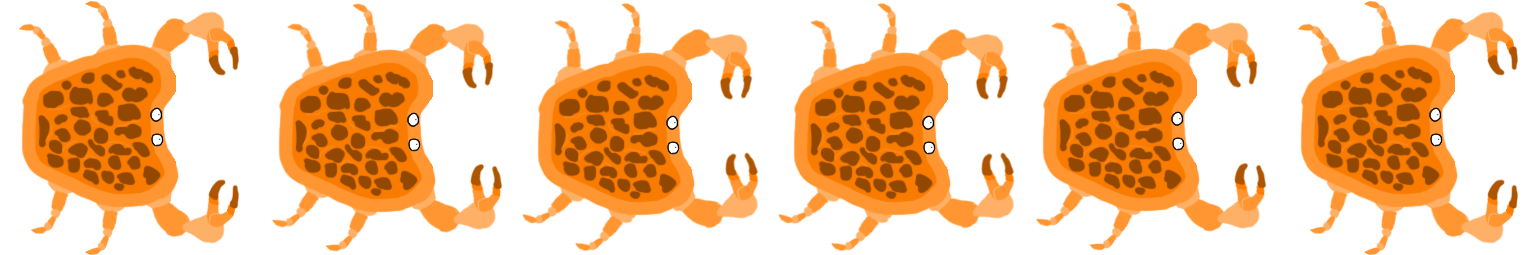
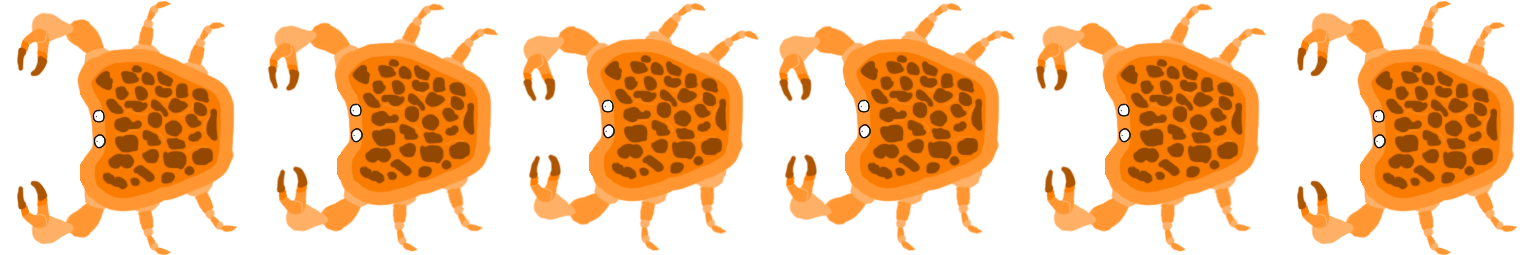
Fejlen er at collision box ikke er sat det rigtige sted, pga vi tegner vores sprite med et offset

diff --git a/MonoCrab/CCollider.cs b/MonoCrab/CCollider.cs
@@ -44,8 +44,7 @@ namespace MonoCrab
         {
             get
             {
-                return new Rectangle
-                    (
+                return new Rectangle(
                     (int)(gameObject.Transform.position.X + spriteRenderer.Offset.X),
                     (int)(gameObject.Transform.position.Y + spriteRenderer.Offset.Y),
                     spriteRenderer.Rectangle.Width,
@@ -64,15 +63,20 @@ namespace MonoCrab
             Rectangle rightLine = new Rectangle(CollisionBox.X + CollisionBox.Width, CollisionBox.Y, 1, CollisionBox.Height);
             Rectangle leftLine = new Rectangle(CollisionBox.X, CollisionBox.Y, 1, CollisionBox.Height);
             
-            //spriteBatch.Draw(texture, topLine, null, Color.Red, 0, Vector2.Zero, SpriteEffects.None, 1);
-            //spriteBatch.Draw(texture, bottomLine, null, Color.Red, 0, Vector2.Zero, SpriteEffects.None, 1);
-            //spriteBatch.Draw(texture, rightLine, null, Color.Red, 0, Vector2.Zero, SpriteEffects.None, 1);
-            //spriteBatch.Draw(texture, leftLine, null, Color.Red, 0, Vector2.Zero, SpriteEffects.None, 1);
+           spriteBatch.Draw(texture, topLine, null, Color.Red, 0, Vector2.Zero, SpriteEffects.None, 1);
+           spriteBatch.Draw(texture, bottomLine, null, Color.Red, 0, Vector2.Zero, SpriteEffects.None, 1);
+           spriteBatch.Draw(texture, rightLine, null, Color.Red, 0, Vector2.Zero, SpriteEffects.None, 1);
+           spriteBatch.Draw(texture, leftLine, null, Color.Red, 0, Vector2.Zero, SpriteEffects.None, 1);
 
-            spriteBatch.Draw(texture, topLine.Location.ToVector2() + spriteRenderer.Offset, topLine, Color.Red, 0, new Vector2(spriteRenderer.Sprite.Width / 2, spriteRenderer.Sprite.Height / 2), 1, SpriteEffects.None, 0.3f);
-            spriteBatch.Draw(texture, bottomLine.Location.ToVector2() + spriteRenderer.Offset, bottomLine, Color.Red, 0, new Vector2(spriteRenderer.Sprite.Width / 2, spriteRenderer.Sprite.Height / 2), 1, SpriteEffects.None, 0.3f);
-            spriteBatch.Draw(texture, rightLine.Location.ToVector2() + spriteRenderer.Offset, rightLine, Color.Red,0, new Vector2(spriteRenderer.Sprite.Width / 2, spriteRenderer.Sprite.Height / 2), 1, SpriteEffects.None, 0.3f);
-            spriteBatch.Draw(texture, leftLine.Location.ToVector2() + spriteRenderer.Offset, leftLine, Color.Red, 0, new Vector2(spriteRenderer.Sprite.Width / 2, spriteRenderer.Sprite.Height / 2), 1, SpriteEffects.None, 0.3f);
+            //don't draw collision boxes when pixel collision is on
+            if (!pixelCollision)
+            {
+                spriteBatch.Draw(texture, topLine.Location.ToVector2() + spriteRenderer.Offset, topLine, Color.Red, 0, new Vector2(spriteRenderer.Sprite.Width / 2, spriteRenderer.Sprite.Height / 2), 1, SpriteEffects.None, 0.3f);
+                spriteBatch.Draw(texture, bottomLine.Location.ToVector2() + spriteRenderer.Offset, bottomLine, Color.Red, 0, new Vector2(spriteRenderer.Sprite.Width / 2, spriteRenderer.Sprite.Height / 2), 1, SpriteEffects.None, 0.3f);
+                spriteBatch.Draw(texture, rightLine.Location.ToVector2() + spriteRenderer.Offset, rightLine, Color.Red, 0, new Vector2(spriteRenderer.Sprite.Width / 2, spriteRenderer.Sprite.Height / 2), 1, SpriteEffects.None, 0.3f);
+                spriteBatch.Draw(texture, leftLine.Location.ToVector2() + spriteRenderer.Offset, leftLine, Color.Red, 0, new Vector2(spriteRenderer.Sprite.Width / 2, spriteRenderer.Sprite.Height / 2), 1, SpriteEffects.None, 0.3f);
+            }
+            
 
             //+ (int)spriteRenderer.Offset.X
         }
@@ -134,7 +138,7 @@ namespace MonoCrab
         private void CachePixels()
         {
             
-                foreach (KeyValuePair<string, Animation> pair in animator.Animations)
+                foreach (KeyValuePair<string, Animation> pair in animator.animations)
                 {
                     Animation animation = pair.Value;
 

diff --git a/MonoCrab/CCrab.cs b/MonoCrab/CCrab.cs
@@ -2,6 +2,7 @@
 using System.Collections.Generic;
 using System.Diagnostics;
 using System.Linq;
+using System.Runtime.Remoting.Metadata.W3cXsd2001;
 using System.Text;
 using Microsoft.Xna.Framework;
 using Microsoft.Xna.Framework.Content;
@@ -12,7 +13,8 @@ namespace MonoCrab
 {
     internal class CCrab : Component, ILoadable, IUpdateable /*, IAnimateable*/, IDrawable, IOnCollisionEnter
     {
-        // private CAnimator animator;
+        private CAnimator animator;
+        private CSpriteRenderer spriteRenderer;
         private List<Vector2> targets = new List<Vector2>();
         private int speed = 40;
         private float turnSpeed = 3;
@@ -34,7 +36,9 @@ namespace MonoCrab
 
         public CCrab(GameObject gameObject) : base(gameObject)
         {
-            //this.animator = (CAnimator)gameObject.GetComponent("CAnimator");
+            this.spriteRenderer = (CSpriteRenderer)gameObject.GetComponent("CSpriteRenderer");
+
+            this.animator = (CAnimator)gameObject.GetComponent("CAnimator");
             gameObject.Transform.speed = speed;
             gameObject.Transform.turnSpeed = turnSpeed;
         }
@@ -67,22 +71,30 @@ namespace MonoCrab
         public void Update()
         {
             GetClosestBait();
-            gameObject.Transform.MoveTo(closestTarget, true);
+            gameObject.Transform.MoveTo(closestTarget, false);
+            gameObject.Transform.LookAt(closestTarget);
         }
 
         public void OnAnimationDone(string animationName)
         {
-            // throw new NotImplementedException();
+            animator.PlayAnimation("Walk");
+
         }
 
         public void CreateAnimations()
         {
-            // animator.CreateAnimation("Walk", new Animation(6, 0, 0, 107, 100, 10, Vector2.Zero));
-            // animator.PlayAnimation("Walk");
+            //animator.CreateAnimation("Walk", new Animation(6, 0, 0, 107, 100, 10, Vector2.Zero));
+            animator.CreateAnimation("Walk", new Animation(6, 0, 0, 256, 255, 10, Vector2.Zero));
+
+            animator.PlayAnimation("Walk");
         }
 
         public void Draw(SpriteBatch spriteBatch)
         {
+            spriteBatch.Draw(spriteRenderer.Sprite, gameObject.Transform.position + spriteRenderer.Offset, spriteRenderer.Rectangle, Color.White, gameObject.Transform.rotation, new Vector2(spriteRenderer.Sprite.Width / 255,spriteRenderer.Sprite.Height / 256), 1, SpriteEffects.None, 0.3f);
+
+            //spriteBatch.Draw(Sprite, gameObject.Transform.position + Offset, Rectangle, drawColor, gameObject.Transform.rotation, Vector2.Zero, 1, SpriteEffects.None, layerDepth);
+
         }
 
         public void OnCollisionEnter(CCollider other)

diff --git a/MonoCrab/CAnimator.cs b/MonoCrab/CAnimator.cs
@@ -28,40 +28,37 @@ namespace MonoCrab
             set { animationName = value; }
         }
 
-        private Dictionary<string, Animation> animations;
+        //private Dictionary<string, Animation> animations;
 
-        public Dictionary<string, Animation> Animations
-        {
-            get
-            {
-                return animations;
-            }
-
-            set
-            {
-                animations = value;
-            }
-        }
+        public Dictionary<string, Animation> animations;
+        
 
        
 
 
         public CAnimator(GameObject gameObject) : base (gameObject)
         {
+            
             fps = 5;
             animations = new Dictionary<string, Animation>();
             this.spriteRenderer = (CSpriteRenderer)gameObject.GetComponent("CSpriteRenderer");
+            
         }
         public void LoadContent(ContentManager content)
         {
-            //int width = spriteRenderer.Sprite.Width / animations[animationName].Fps;
+            //int width = (spriteRenderer.Sprite.Width / animations[animationName].Fps;
             //rectangles = new Rectangle[stripLength];
             //for (int i = 0; i < stripLength; i++)
             //{
             //    rectangles[i] = new Rectangle(i * width, 0, width, spriteRenderer.Sprite.Height);
             //}
         }
+        public void CreateAnimation(string name, Animation animation)
+        {
+            animations.Add(name, animation);
+           // rectangles = animation.Rectangles;
 
+        }
         public void Update()
         {
             timeElapsed += GameWorld.gameWorld.deltaTime;
@@ -76,10 +73,7 @@ namespace MonoCrab
             spriteRenderer.Rectangle = rectangles[CurrentIndex];
         }
 
-        public void CreateAnimation(string name, Animation animation)
-        {
-            animations.Add(name,animation);
-        }
+        
 
         public void PlayAnimation(string animationName)
         {

diff --git a/MonoCrab/GameWorld.cs b/MonoCrab/GameWorld.cs
@@ -71,9 +71,9 @@ namespace MonoCrab
         private void AddGameObjects()
         {
             GameObject crab = new GameObject(new Vector2(100,100));
-            crab.AddComponent(new CSpriteRenderer(crab,"testcrab",Color.White,1f));
+            crab.AddComponent(new CSpriteRenderer(crab,"crab",Color.White,1f));
             crab.AddComponent(new CAnimator(crab));
-            crab.AddComponent(new CCollider(crab,false));
+            crab.AddComponent(new CCollider(crab,true));
             crab.AddComponent(new CCrab(crab));
             gameObjects.Add(crab);
 
@@ -87,7 +87,7 @@ namespace MonoCrab
             bait.AddComponent(new CSpriteRenderer(bait,"NegBait1",Color.White,1f));
             bait.AddComponent(new CAnimator(bait));
             bait.AddComponent(new CBait(bait, 1));
-            bait.AddComponent(new CCollider(bait,false));
+            bait.AddComponent(new CCollider(bait,true));
             gameObjects.Add(bait);
             baitlist.Add(bait);
 
@@ -95,7 +95,7 @@ namespace MonoCrab
             newbait.AddComponent(new CSpriteRenderer(newbait, "NegBait5", Color.White, 1f));
             newbait.AddComponent(new CAnimator(newbait));
             newbait.AddComponent(new CBait(newbait, -5));
-            newbait.AddComponent(new CCollider(newbait, false));
+            newbait.AddComponent(new CCollider(newbait, true));
             gameObjects.Add(newbait);
             baitlist.Add(newbait);
         }

diff --git a/MonoCrab/GameObject.cs b/MonoCrab/GameObject.cs
@@ -65,6 +65,18 @@ namespace MonoCrab
             }
         }
 
+        public void Draw(SpriteBatch spriteBatch)
+        {
+            foreach (Component component in components)
+            {
+                if (component is IDrawable)
+                {
+                    (component as IDrawable).Draw(spriteBatch);
+
+                }
+            }
+        }
+
         public void Update()
         {
             foreach (Component component in components)
@@ -121,16 +133,6 @@ namespace MonoCrab
 
             }
         }
-        public void Draw(SpriteBatch spriteBatch)
-        {
-            foreach (Component component in components)
-            {
-                if (component is IDrawable)
-                {
-                    (component as IDrawable).Draw(spriteBatch);
-                    
-                }
-            }
-        }
+        
     }
 }

diff --git a/MonoCrab/CSpriteRenderer.cs b/MonoCrab/CSpriteRenderer.cs
@@ -61,9 +61,11 @@ namespace MonoCrab
             this.Rectangle = new Rectangle(0,0,sprite.Width,sprite.Height);
         }
 
-        public void Draw(SpriteBatch spriteBatch)
+        public virtual void Draw(SpriteBatch spriteBatch)
         {
-            spriteBatch.Draw(Sprite, gameObject.Transform.position + Offset, Rectangle, drawColor, gameObject.Transform.rotation,new Vector2(sprite.Width / 2,sprite.Height / 2), 1, SpriteEffects.None, layerDepth);
+            spriteBatch.Draw(Sprite, gameObject.Transform.position + Offset, Rectangle, drawColor, gameObject.Transform.rotation, Vector2.Zero, 1, SpriteEffects.None, layerDepth);
+
+            //spriteBatch.Draw(Sprite, gameObject.Transform.position + Offset, Rectangle, drawColor, gameObject.Transform.rotation,new Vector2(Rectangle.Width / 2, Rectangle.Height / 2), 1, SpriteEffects.None, layerDepth);
         }
     }
 }

diff --git a/MonoCrab/CBait.cs b/MonoCrab/CBait.cs
@@ -33,12 +33,13 @@ namespace MonoCrab
             this.Energy = energy;
             this.animator = (CAnimator)gameObject.GetComponent("CAnimator");
             GameWorld.gameWorld.BaitList.Add(gameObject);
+            
 
         }
 
         public void LoadContent(ContentManager content)
         {
-            CreateAnimations();
+           CreateAnimations();
         }
 
 
@@ -82,7 +83,7 @@ namespace MonoCrab
 
         public void OnAnimationDone(string animationName)
         {
-            animator.PlayAnimation("Spin");
+            //animator.PlayAnimation("Spin");
         }
     }
 }
